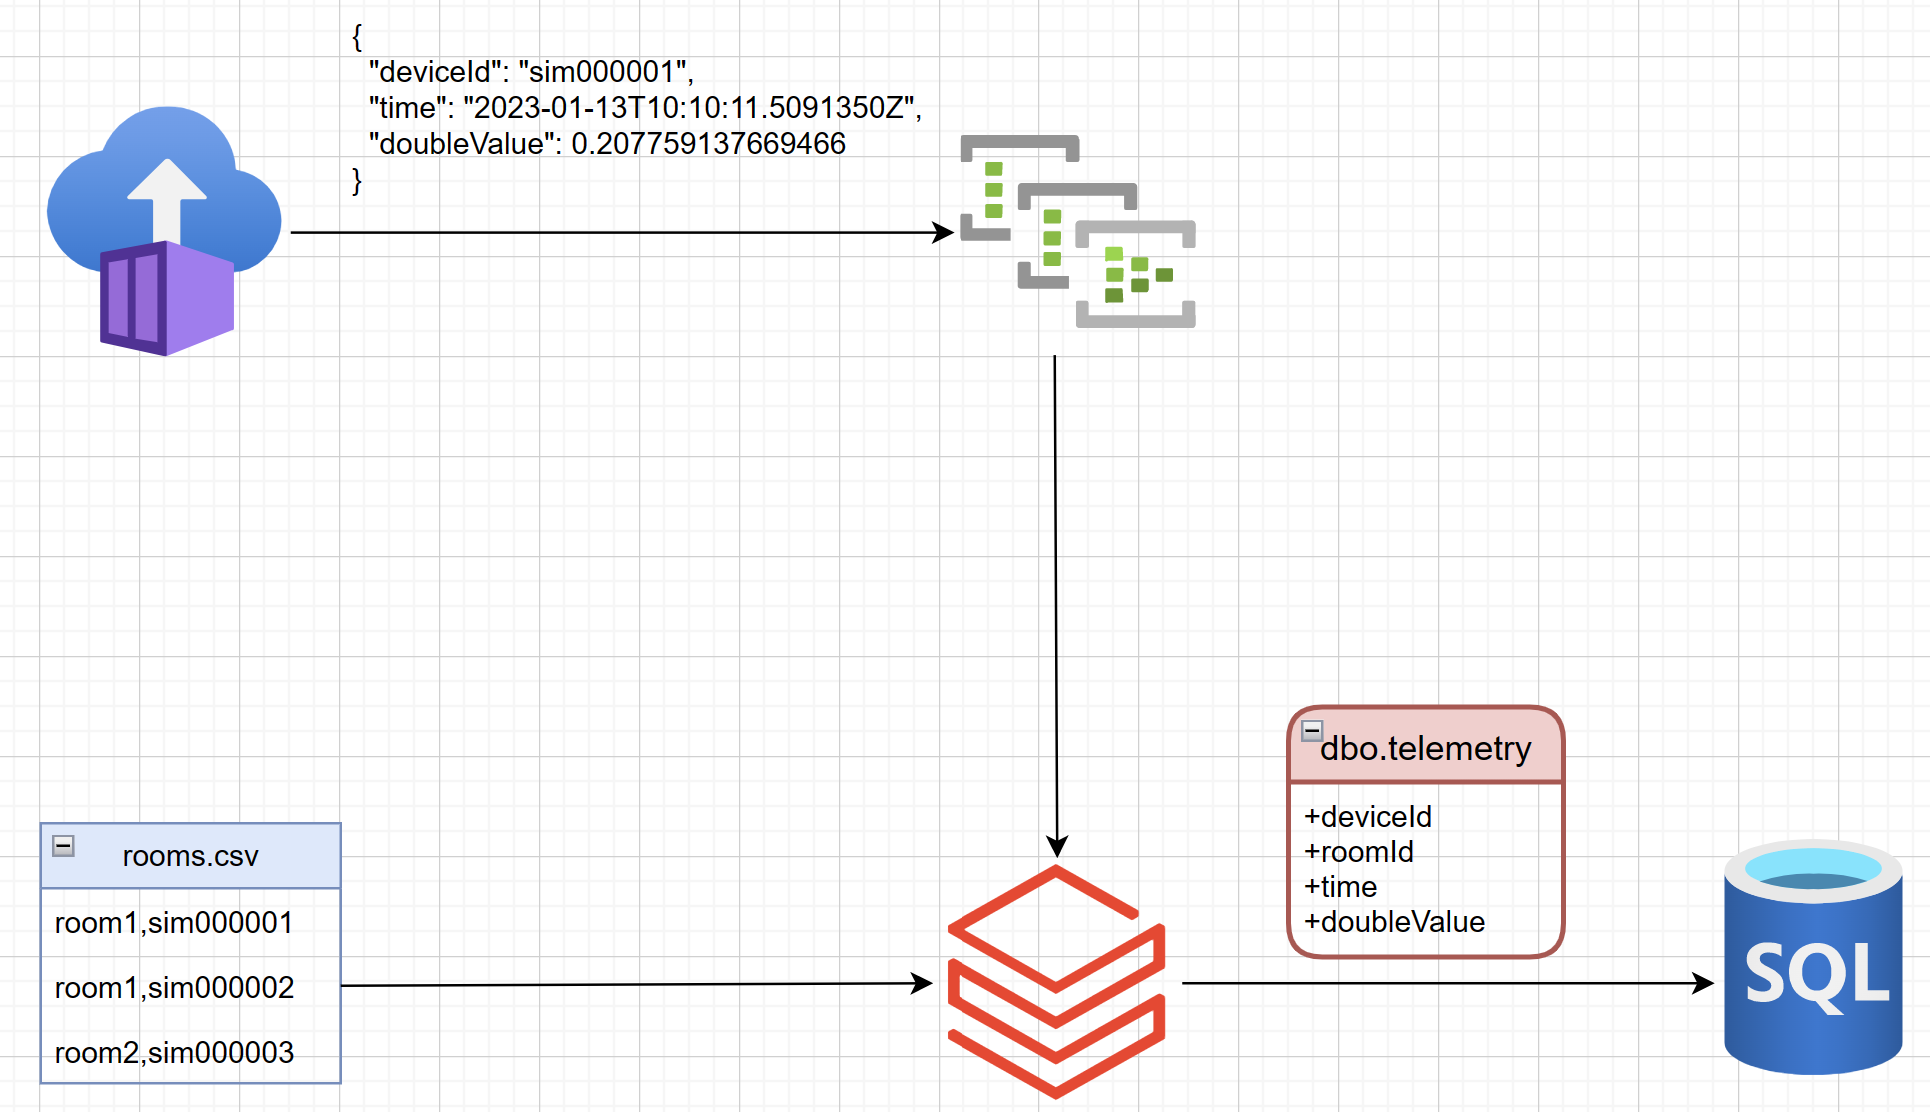
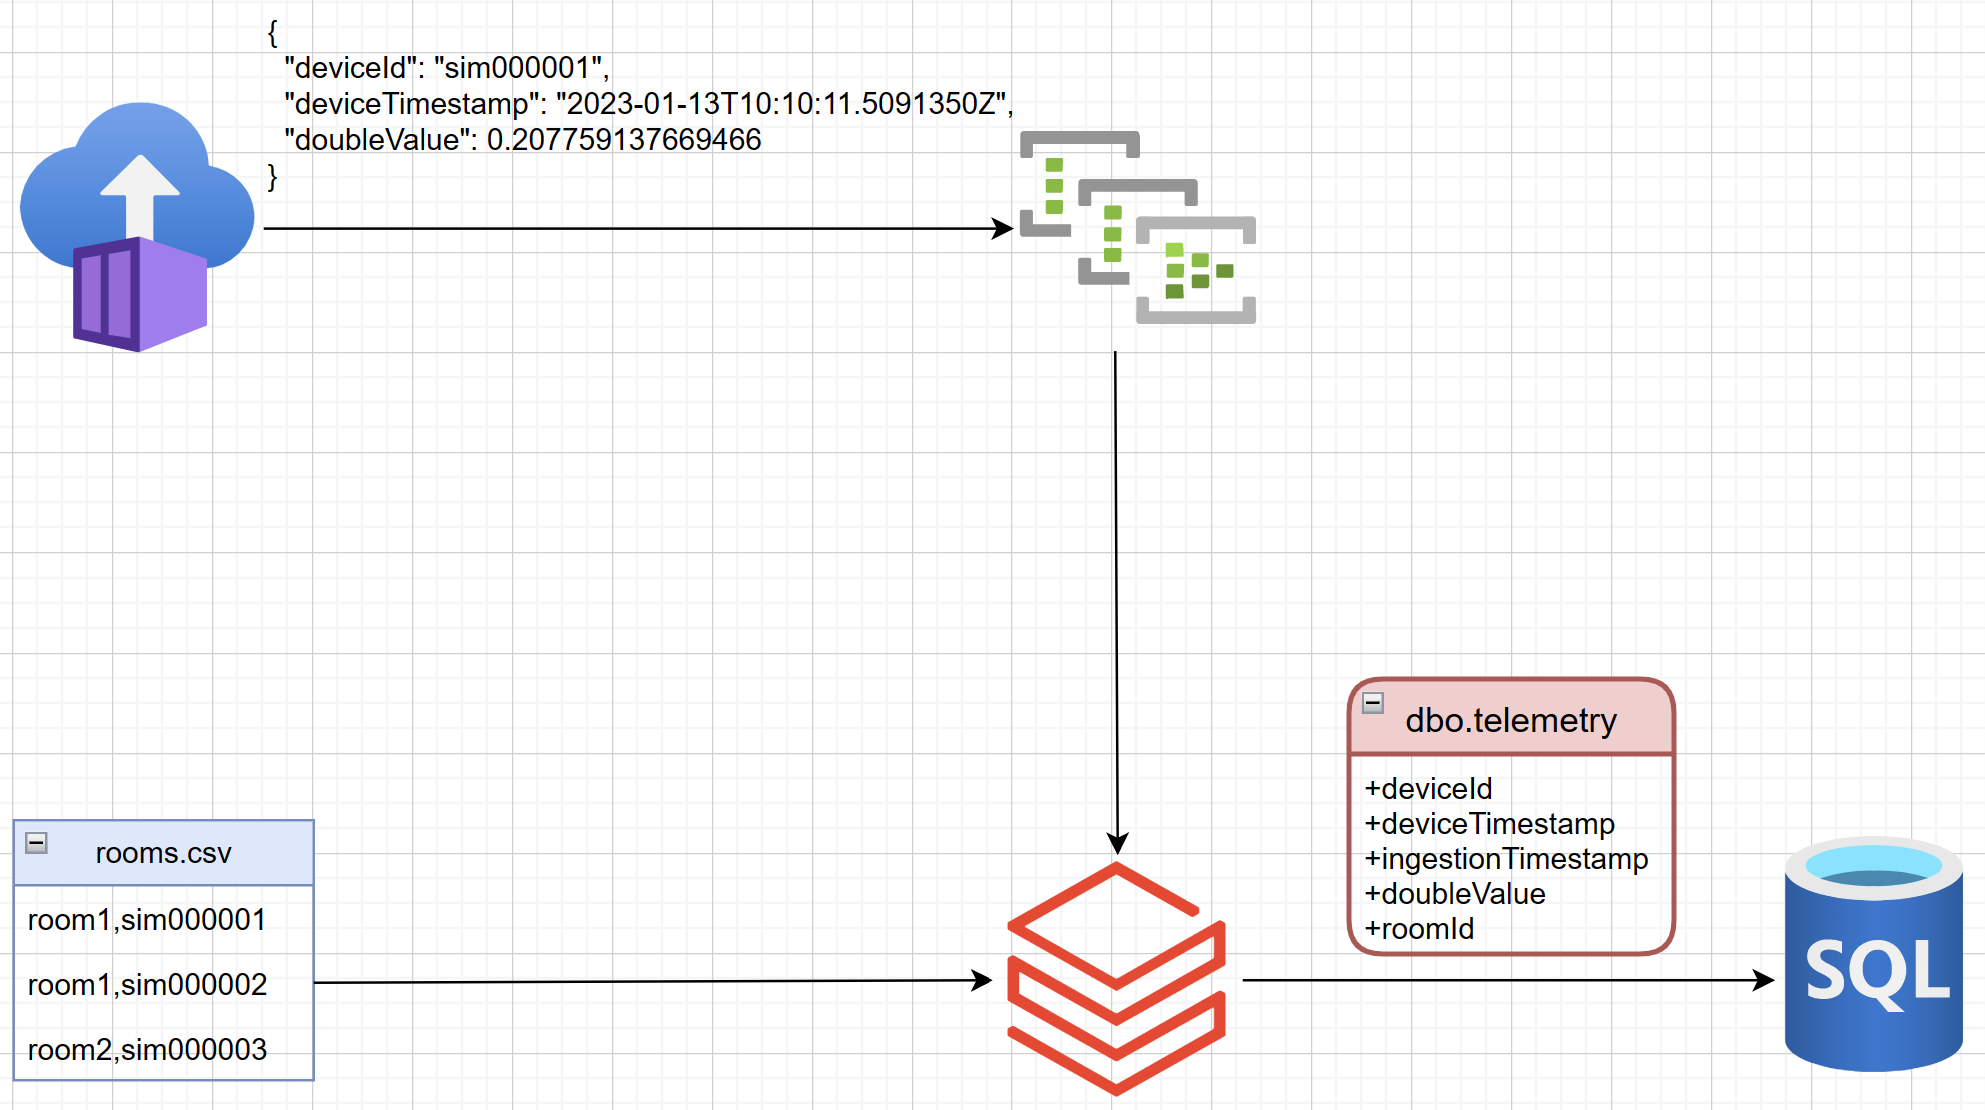
Update arch diagrams

diff --git a/src/common_lib/src/stream_processor.py b/src/common_lib/src/stream_processor.py
@@ -20,7 +20,7 @@ class StreamProcessor:
     def process_stream(self, df_metadata: DataFrame,
                        df_raw_stream: DataFrame) -> DataFrame:
         # The output schema should match the
-        # Table definition in create_table.sql
+        # Table definition in ../../db/create_table.sql
         return (df_raw_stream
                 .withColumn("data", F.from_json(F.col("value").cast("STRING"),
                             self.stream_schema))

diff --git a/README.md b/README.md
@@ -5,7 +5,7 @@
 Workload portability is important to manufacturing customers, as it allows them to operate solutions across different environments without the need to re-architect or re-write large sections of code. They can easily move from the Edge to the cloud, depending on their specific requirements. It also enables them to analyze and make real-time decisions at the source of the data and reduces their dependency on a central location for data processing. [Apache Spark](https://spark.apache.org/docs/latest/)'s rich ecosystem of data connectors, availability in [the cloud](https://azure.microsoft.com/en-us/products/databricks) and the Edge ([Docker](https://hub.docker.com/r/apache/spark-py) & [Kubernetes](https://spark.apache.org/docs/latest/running-on-kubernetes.html)), and a [thriving open source community](https://github.com/apache/spark) makes it an ideal candidate for portable ETL workloads. In this sample we'll showcase an E2E data pipeline leveraging [Spark's Structured Streaming](https://spark.apache.org/docs/latest/structured-streaming-programming-guide.html#overview) capabilities.
 
 ## Edge
-In the Edge version, we provision and orchestrate everything with `Docker Compose`. The pipeline begins with [Azure IoT Device Telemetry Simulator](https://github.com/Azure-Samples/Iot-Telemetry-Simulator) sending synthetic Time Series data to a [Confluent Community Kafka Server](https://docs.confluent.io/platform/current/platform-quickstart.html#ce-docker-quickstart). A PySpark app then processes the Time Series, applies some metadata and writes the aggregated results to a SQL DB hosted in [SQL Server 2022 Linux container](https://learn.microsoft.com/en-us/sql/linux/quickstart-install-connect-docker?view=sql-server-ver16&pivots=cs1-bash). To validate that the E2E Edge pipeline is working correctly, we can execute the script `smoke-test.sh`.
+In the Edge version, we provision and orchestrate everything with `Docker Compose`. The pipeline begins with [Azure IoT Device Telemetry Simulator](https://github.com/Azure-Samples/Iot-Telemetry-Simulator) sending synthetic Time Series data to a [Confluent Community Kafka Server](https://docs.confluent.io/platform/current/platform-quickstart.html#ce-docker-quickstart). A PySpark app then processes the Time Series, applies some metadata and writes the enriched results to a SQL DB hosted in [SQL Server 2022 Linux container](https://learn.microsoft.com/en-us/sql/linux/quickstart-install-connect-docker?view=sql-server-ver16&pivots=cs1-bash). To validate that the E2E Edge pipeline is working correctly, we can execute the script `smoke-test.sh`.
 
 <div align="center">
     <img src="./docs/edge-architecture.png">
@@ -14,10 +14,10 @@ In the Edge version, we provision and orchestrate everything with `Docker Compos
 ## Cloud
 In the Cloud version, we provision all infrastructure with Terraform.
 
-**Note:** Prior to running `terraform apply` you must ensure the wheel `src/common_lib/dist/common_lib-*.whl` exists locally by executing `sudo python3 -m build ./src/common_lib`.
+**Note:** Prior to running `terraform apply` you must ensure the wheel `./src/common_lib/dist/common_lib-*.whl` exists locally by executing `sudo python3 -m build ./src/common_lib`.
 
 The IoT Telemetry Simulator is hosted in [Azure Container Instances](https://azure.microsoft.com/en-us/products/container-instances). It sends generated data to a Kafka head, [exposed through Azure Event Hubs](https://learn.microsoft.com/en-us/azure/event-hubs/azure-event-hubs-kafka-overview).
-The rest of the ETL workload is orchestrated using a combination of a [Delta Live Tables](https://learn.microsoft.com/en-us/azure/databricks/workflows/delta-live-tables/) Pipeline and a [Databricks Job](https://learn.microsoft.com/en-us/azure/databricks/workflows/jobs/jobs). The DLT Pipeline is responsible for reading and aggregating the data from sources, while the Databricks job, streams the aggregated output to an [Azure SQL DB](https://azure.microsoft.com/en-us/products/azure-sql/database/). Key point to note here is that the stream processing logic is shared between the Edge and Cloud through the `common_lib` [Wheel](https://pypi.org/project/wheel/).
+The rest of the ETL workload is orchestrated using a combination of a [Delta Live Tables](https://learn.microsoft.com/en-us/azure/databricks/workflows/delta-live-tables/) Pipeline and a [Databricks Job](https://learn.microsoft.com/en-us/azure/databricks/workflows/jobs/jobs). The DLT Pipeline is responsible for reading and enriching the data from sources, while the Databricks job, streams the final output to an [Azure SQL DB](https://azure.microsoft.com/en-us/products/azure-sql/database/). Key point to note here is that the stream processing logic is shared between the Edge and Cloud through the `common_lib` [Wheel](https://pypi.org/project/wheel/).
 
 <div align="center">
     <img src="./docs/cloud-architecture.png">
